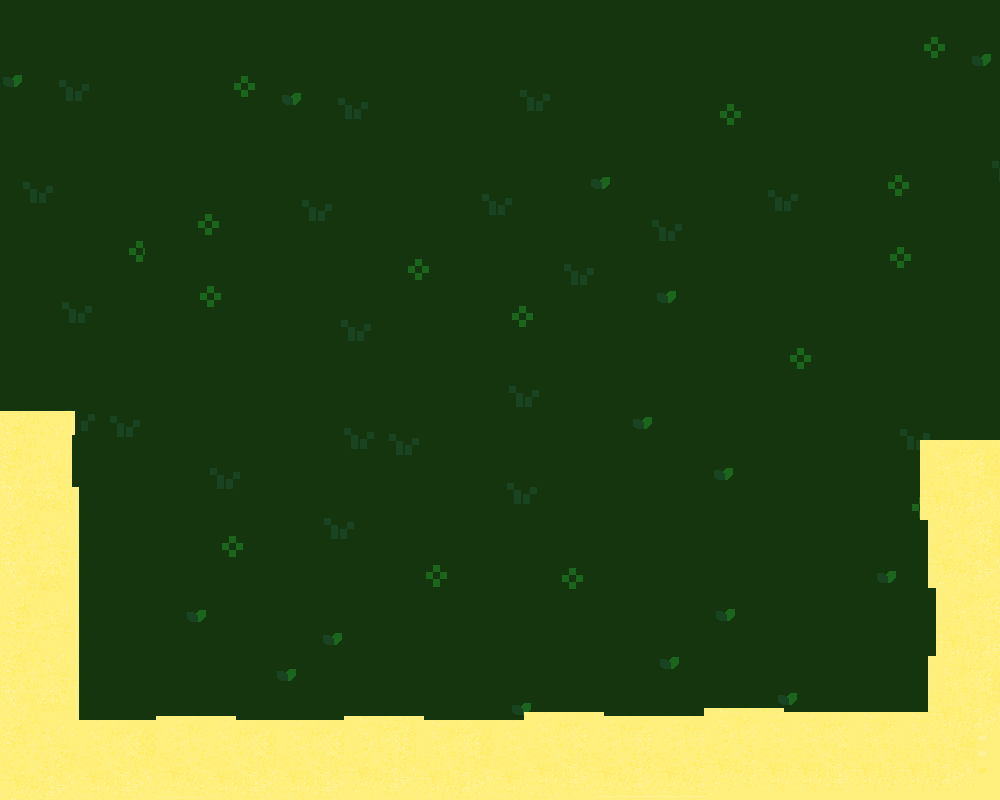
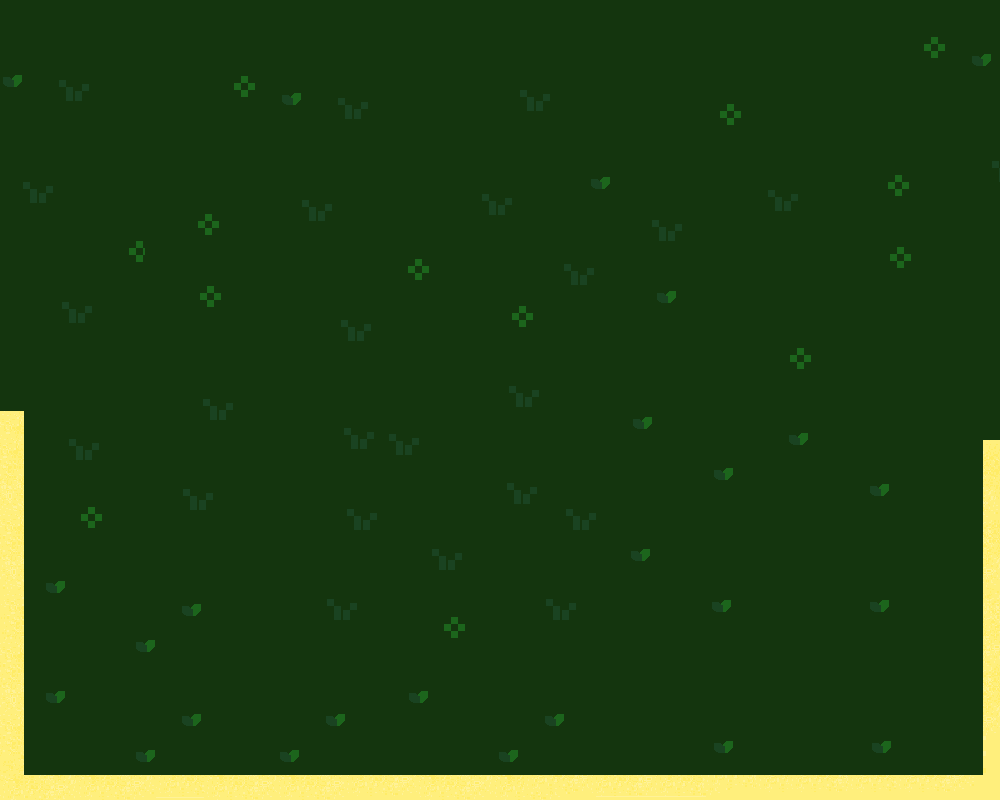
Update 0.1

diff --git a/Main.cpp b/Main.cpp
@@ -15,36 +15,69 @@ using namespace std;
 using namespace sf;
 
 
-Color dd(111, 111, 111);
-Color cw(89, 176, 13);
-Color c(0,202,27);
-Color c2(67,202,0);
-Color magic(58, 228, 205);
-Color maple(103, 137, 24);
-Color cdb(33, 78, 211);
-Color a(132, 8, 16);
-Color co(8, 146, 208);
-Color swa(35, 40, 0);
-Color ta(0, 66, 37);
-Biome grassland(Vector2f(700, 700), Color::Green);
-Biome desert(Vector2f(600, 600), Color::Yellow);
-Biome birchforest(Vector2f(950, 950),c2);
-Biome countryland(Vector2f(900, 900), c); 
-Biome magicalforest(Vector2f(900, 900), magic);
-Biome mapleforest(Vector2f(900, 950), maple);
-Biome CherryWoods(Vector2f(800, 1350), cw);
-Biome Moun(Vector2f(1600, 650), Color::Black);
-Biome cold(Vector2f(700, 1000), Color::White);
-Biome flower(Vector2f(500, 700), Color::Green);
-Biome DeathD(Vector2f(900, 900), dd);
-Biome CB(Vector2f(400, 400), cdb);
+//Color dd(111, 111, 111);
+//Color cw(89, 176, 13);
+//Color c(0,202,27);
+//Color c2(67,202,0);
+//Color magic(58, 228, 205);
+//Color maple(103, 137, 24);
+//Color cdb(33, 78, 211);
+//Color a(132, 8, 16);
+//Color co(8, 146, 208);
+//Color swa(35, 40, 0);
+//Color ta(0, 66, 37);
 
-Biome Taiga(Vector2f(1000, 800), ta);
-Biome Swamp(Vector2f(500, 500), swa);
-Biome Al(Vector2f(650, 650), a);
-Biome Com(Vector2f(600, 600), co);
 int main(){
-    
+
+    Texture gl;
+    gl.loadFromFile("Art/Others/Biomes/gl.png");
+    Texture ds;
+    ds.loadFromFile("Art/Others/Biomes/desertbiome.png");
+    Texture bf;
+    bf.loadFromFile("Art/Others/Biomes/birchforest.png");
+    Texture col;
+    col.loadFromFile("Art/Others/Biomes/countryland.png");
+    Texture magic;
+    magic.loadFromFile("Art/Others/Biomes/magicalforest.png");
+    Texture dd;
+    dd.loadFromFile("Art/Others/Biomes/deathdesertbiome.png");
+    Texture maple;
+    maple.loadFromFile("Art/Others/Biomes/mapleforest.png");
+    Texture cdb;
+    cdb.loadFromFile("Art/Others/Biomes/ci.png");
+    Texture cw;
+    cw.loadFromFile("Art/Others/Biomes/cherrywoods.png");
+    Texture ta;
+    ta.loadFromFile("Art/Others/Biomes/taigabiome.png");
+    Texture swa;
+    swa.loadFromFile("Art/Others/Biomes/swampbiome.png");
+    Texture a;
+    a.loadFromFile("Art/Others/Biomes/alaphanty.png");
+    Texture co;
+    co.loadFromFile("Art/Others/Biomes/comory.png");
+    Texture moun;
+    moun.loadFromFile("Art/Others/Biomes/mountains.png");
+    Texture cl;
+    cl.loadFromFile("Art/Others/Biomes/coldbiome.png");
+    Texture fl;
+    fl.loadFromFile("Art/Others/Biomes/flower.png");
+    Biome grassland(Vector2f(700, 700), &gl);
+Biome desert(Vector2f(600, 600), &ds);
+Biome birchforest(Vector2f(950, 950),&bf);
+Biome countryland(Vector2f(900, 900), &col); 
+Biome magicalforest(Vector2f(900, 900), &magic);
+Biome mapleforest(Vector2f(900, 950), &maple);
+Biome CherryWoods(Vector2f(800, 1350), &cw);
+Biome Moun(Vector2f(1600, 650), &moun);
+Biome cold(Vector2f(700, 1000), &cl);
+Biome flower(Vector2f(500, 700), &fl);
+Biome DeathD(Vector2f(900, 900), &dd);
+Biome CB(Vector2f(400, 400), &cdb);
+
+Biome Taiga(Vector2f(1000, 800), &ta);
+Biome Swamp(Vector2f(500, 500), &swa);
+Biome Al(Vector2f(650, 650), &a);
+Biome Com(Vector2f(600, 600), &co);
     
     
 
@@ -93,6 +126,8 @@ int main(){
     mangrovet.loadFromFile("Art/Trees/tree7.png");
     Texture Icespiket;
     Icespiket.loadFromFile("Art/Trees/ICESPIKE.png");
+    Texture burntt;
+    burntt.loadFromFile("Art/Trees/burnttree.png");
     //Sprite oaktree[100];
    // for(int i = 0; i < 100; i++){
     //    int x = rand()%(480+400 + 1) - 400;
@@ -112,6 +147,7 @@ int main(){
     std::vector<Object> magicaltrees;
     std::vector<Object> mangrovetrees;
     std::vector<Object> Icespikes;
+    std::vector<Object> burnttrees;
         for (int i = 0; i < 200; ++i)
          {
             int x = rand()% ((int)(countryland.biome.getSize().x +countryland.biome.getPosition().x)-50-(int)(countryland.biome.getPosition().x) - 1) + countryland.biome.getPosition().x;
@@ -179,11 +215,19 @@ int main(){
         }
         for (int i = 0; i < 200; ++i)
         {
-            int x = rand()% ((int)(cold.biome.getSize().x+cold.biome.getPosition().x)-50-(int)(cold.biome.getPosition().x) - 1) + cold.biome.getPosition().x;
+            int x = rand()% ((int)(cold.biome.getSize().x+cold.biome.getPosition().x)-150-(int)(cold.biome.getPosition().x) - 1) + cold.biome.getPosition().x;
             int y = rand()% ((int)(cold.biome.getSize().y+cold.biome.getPosition().y)-200-(int)(cold.biome.getPosition().y) - 1) + cold.biome.getPosition().y;
             Object tree(Icespiket, Vector2f((x), (y)), 1000);
         // Push the sprite into the vector
             Icespikes.push_back(tree);
+        }
+         for (int i = 0; i < 200; ++i)
+        {
+            int x = rand()% ((int)(Al.biome.getSize().x+Al.biome.getPosition().x)-50-(int)(Al.biome.getPosition().x) - 1) + Al.biome.getPosition().x;
+            int y = rand()% ((int)(Al.biome.getSize().y+Al.biome.getPosition().y)-50-(int)(Al.biome.getPosition().y) - 1) + Al.biome.getPosition().y;
+            Object tree(burntt, Vector2f((x), (y)), 500);
+        // Push the sprite into the vector
+            burnttrees.push_back(tree);
         }
     
     while (window.isOpen())
@@ -288,6 +332,16 @@ int main(){
                     // destroy sprite
                             auto it = std::find_if(Icespikes.begin(), Icespikes.end(), [&sprite](const Object& s) { return &s == &sprite; });
                             Icespikes.erase(it);
+                        }
+                    }   
+                }
+                for (auto& sprite : burnttrees) {
+                    if (sprite.contains(Vector2f(mousePosF))) {
+                        sprite.takeDamage(10);
+                        if (sprite.m_health <= 0) {
+                    // destroy sprite
+                            auto it = std::find_if(burnttrees.begin(), burnttrees.end(), [&sprite](const Object& s) { return &s == &sprite; });
+                            burnttrees.erase(it);
                         }
                     }   
                 }
@@ -500,6 +554,27 @@ int main(){
             }
         }
     }
+
+    for (auto& sprite : burnttrees)
+    {
+        for (auto& otherSprite : burnttrees)
+        {
+            if (&sprite == &otherSprite)
+            {
+                continue;
+            }
+
+            // Calculate the distance between the sprites
+            sf::Vector2f displacement = sprite.getPosition() - otherSprite.getPosition();
+            float distance = sqrt(displacement.x * displacement.x + displacement.y * displacement.y);
+
+            // If the sprites are colliding, subtract damage from the sprite's health
+            if (distance < sprite.getRadius() + otherSprite.getRadius())
+            {
+                sprite.takeDamage(std::rand() % 10 + 1);
+            }
+        }
+    }
     // Remove any sprites whose health has reached 0 or less
     oaktrees.erase(std::remove_if(oaktrees.begin(), oaktrees.end(), [](const Object& sprite) {
         return !sprite.isAlive();
@@ -528,6 +603,9 @@ int main(){
      Icespikes.erase(std::remove_if(Icespikes.begin(), Icespikes.end(), [](const Object& sprite) {
         return !sprite.isAlive();
     }), Icespikes.end());
+     burnttrees.erase(std::remove_if(burnttrees.begin(), burnttrees.end(), [](const Object& sprite) {
+        return !sprite.isAlive();
+    }), burnttrees.end());
     for (auto& sprite : oaktrees)
     {
         sprite.draw(window);
@@ -561,6 +639,10 @@ int main(){
         sprites.draw(window);
     }
     for (auto& sprites : Icespikes)
+    {
+        sprites.draw(window);
+    }
+    for (auto& sprites : burnttrees)
     {
         sprites.draw(window);
     }

diff --git a/Biome.hpp b/Biome.hpp
@@ -10,9 +10,10 @@ private:
     
 public:
     sf::RectangleShape biome;
-    Biome(sf::Vector2f size, sf::Color colour){
+    Biome(sf::Vector2f size, sf::Texture* colour){
         biome.setSize(size);
-        biome.setFillColor(colour);
+        biome.setTexture(colour, false);
+        
     }
     void drawTo(sf::RenderWindow &window){
         window.draw(biome);
